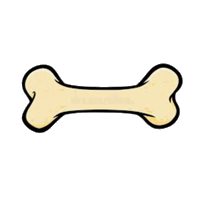
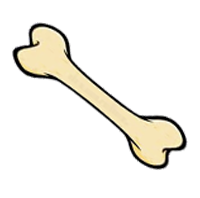
added event for giving dog milk in bowl, dog dropping bone so player can collect it

Changed region(s): [[0.06, 0.0909, 0.96, 0.8788]]

diff --git a/events.js b/events.js
@@ -1,7 +1,7 @@
 import { setOriginalGridState, setParrotCompletedMovingToFlyer, getParrotCompletedMovingToFlyer, getCutSceneState, setPreAnimationGridState, getGridData, getColorTextPlayer, getDialogueData, getGameVisibleActive, getLanguage, getNavigationData, getNpcData, setCurrentSpeaker, getObjectData, setAnimationInProgress, setCustomMouseCursor, getCustomMouseCursor, getCanvasCellWidth, getCanvasCellHeight, getAllGridData, setNavigationData } from "./constantsAndGlobalVars.js";
 import { setDialogueData, removeObjectFromEnvironment, handleInventoryAdjustment, addItemToInventory, setObjectData, setNpcData } from "./handleCommands.js";
 import { drawInventory, showText } from "./ui.js";
-import { showHideObjectAndMakeHoverable, setGameState, gameLoop } from "./game.js";
+import { addObjectToEnvironment, showHideObjectAndMakeHoverable, setGameState, gameLoop } from "./game.js";
 import { getTextColor, getTextPosition, getOrderOfDialogue, dialogueEngine } from "./dialogue.js";
 
 //OBJECTS DON'T NEED TO BE REMOVED FROM INVENTORY THIS IS HANDLED ELSEWHERE WHETHER THEY NEED TO BE REMOVED OR NOT
@@ -291,6 +291,59 @@ async function removeSplinterFromCowsHoof(blank, dialogueString, blank2, objectI
             showText(dialogueString, getColorTextPlayer());
         }
     }
+}
+
+async function giveDogBowlOfMilk(townDog, dialogueString, blank2, objectId) {
+    const objectData = getObjectData().objects[objectId];
+    const dialogueData = getDialogueData().dialogue;
+    const language = getLanguage();
+    const npcData = getNpcData().npcs[townDog];
+    const gridData = getGridData();
+
+    const giveScenarioId = npcData.interactable.receiveObjectScenarioId;
+    const dialogueStringData = dialogueData.objectInteractions.verbGive[objectId].scenario[giveScenarioId].phase;
+
+    handleInventoryAdjustment(objectId, 1, true);
+    drawInventory(0);
+
+    setNpcData(`${townDog}`, `activeSpriteUrl`, 's2');
+
+    const gridPositionX = 34;
+    const gridPositionY = 18;
+
+    const offsetX = getObjectData().objects['objectBone'].offset.x * getCanvasCellWidth();
+    const offsetY = getObjectData().objects['objectBone'].offset.x * getCanvasCellHeight();
+
+    const offSetAdjustmentX = offsetX - (0.6 * getCanvasCellWidth()); //change these to move object with fine control
+    const offSetAdjustmentY = 0; //change these to move object with fine control
+
+    const desiredVisualPositionX = Math.floor(gridPositionX * getCanvasCellWidth()) + offsetX + offSetAdjustmentX;
+    const desiredVisualPositionY = Math.floor(gridPositionY * getCanvasCellHeight()) + offsetY + offSetAdjustmentY;
+
+    addObjectToEnvironment('objectBowl', 31, 16, 0, 0, 30, 20);
+    setObjectData(`objectBowl`, `dimensions.width`, 30);
+    setObjectData(`objectBowl`, `dimensions.height`, 20);
+    setObjectData(`objectBowl`, `interactable.canPickUp`, false);
+
+    setAnimationInProgress(true);
+    setPreAnimationGridState(gridData, 'objectBone', true);
+    setObjectData(`objectBone`, `visualPosition.x`, desiredVisualPositionX);
+    setObjectData(`objectBone`, `visualPosition.y`, desiredVisualPositionY);
+    setObjectData(`objectBone`, `dimensions.width`, 20);
+    setObjectData(`objectBone`, `dimensions.height`, 12);
+    setObjectData(`objectBone`, `interactable.canPickUp`, true);
+    showHideObjectAndMakeHoverable('s2', 'objectBone', true); 
+    
+    const orderOfStartingDialogue = getOrderOfDialogue(objectId, null, null, null, false, giveScenarioId);
+    setCustomMouseCursor(getCustomMouseCursor('normal'));
+    setGameState(getCutSceneState());
+
+    await showCutSceneDialogue(0, dialogueStringData, orderOfStartingDialogue, npcData);
+
+    setDialogueData('npcInteractions.verbLookAt.npcTownDog', '0', '1');
+    setDialogueData('objectInteractions.verbLookAt.objectBowl', '0', '1');
+
+    //put empty bowl on floor and update look at and make not pickable
 }
 
 //---------------------------------------------------------------------------------------------------------------------------------------------

diff --git a/game.js b/game.js
@@ -825,6 +825,54 @@ function getLocationName(id) {
     }
 }
 
+export function addObjectToEnvironment(objectId, xPos, yPos, xOffset = 0, yOffset = 0, width, height) {
+    const objectsData = getObjectData();
+    const gridData = getAllGridData();
+    const cellWidth = getCanvasCellWidth();
+    const cellHeight = getCanvasCellHeight();
+
+    const object = objectsData.objects[objectId]; // Fetch the object data
+    if (!object) {
+        console.warn(`Object with ID ${objectId} not found!`);
+        return;
+    }
+
+    const roomName = object.objectPlacementLocation;
+    const roomGridData = gridData[roomName];
+    
+    if (!roomGridData) {
+        console.warn(`No grid found for room: ${roomName}`);
+        return;
+    }
+
+    // Calculate the dimensions in grid cells
+    const widthInCells = Math.floor(width / cellWidth) + 1;
+    const heightInCells = Math.floor(height / cellHeight) + 1;
+
+    // Set object offset positions
+    const offsetX = xOffset * cellWidth;
+    const offsetY = yOffset * cellHeight;
+
+    // Loop to place the object in the grid
+    for (let x = xPos; x < xPos + widthInCells; x++) {
+        for (let y = yPos; y < yPos + heightInCells; y++) {
+            const originalValue = roomGridData[y][x];
+
+            // Store original value in case needed for resetting
+            setOriginalValueInCellWhereObjectPlaced(roomName, x, y, objectId, originalValue);
+            roomGridData[y][x] = `o${objectId}`;
+        }
+    }
+
+    // Update object's visual position based on the grid and offsets
+    object.visualPosition = {
+        x: xPos * cellWidth + offsetX,
+        y: yPos * cellHeight + offsetY
+    };
+
+    console.log(`Placed object ${objectId} in room ${roomName} at grid position (${xPos}, ${yPos}) with visual position (${object.visualPosition.x}, ${object.visualPosition.y}).`);
+}
+
 export function setUpObjectsAndNpcs() { 
     const objectsData = getObjectData();
     const npcData = getNpcData();  // Fetch NPC data

diff --git a/handleCommands.js b/handleCommands.js
@@ -139,7 +139,7 @@ function pickUpItem(objectId, quantity, verb, dialogueString) {
     addItemToInventory(objectId, quantity);
 
     //DEBUG ZONE
-    //addItemToInventory('objectPulleyWheel', 1);
+    addItemToInventory('objectMilkInBowl', 1);
     // addItemToInventory('objectParrotHook', 1);
     //
 
